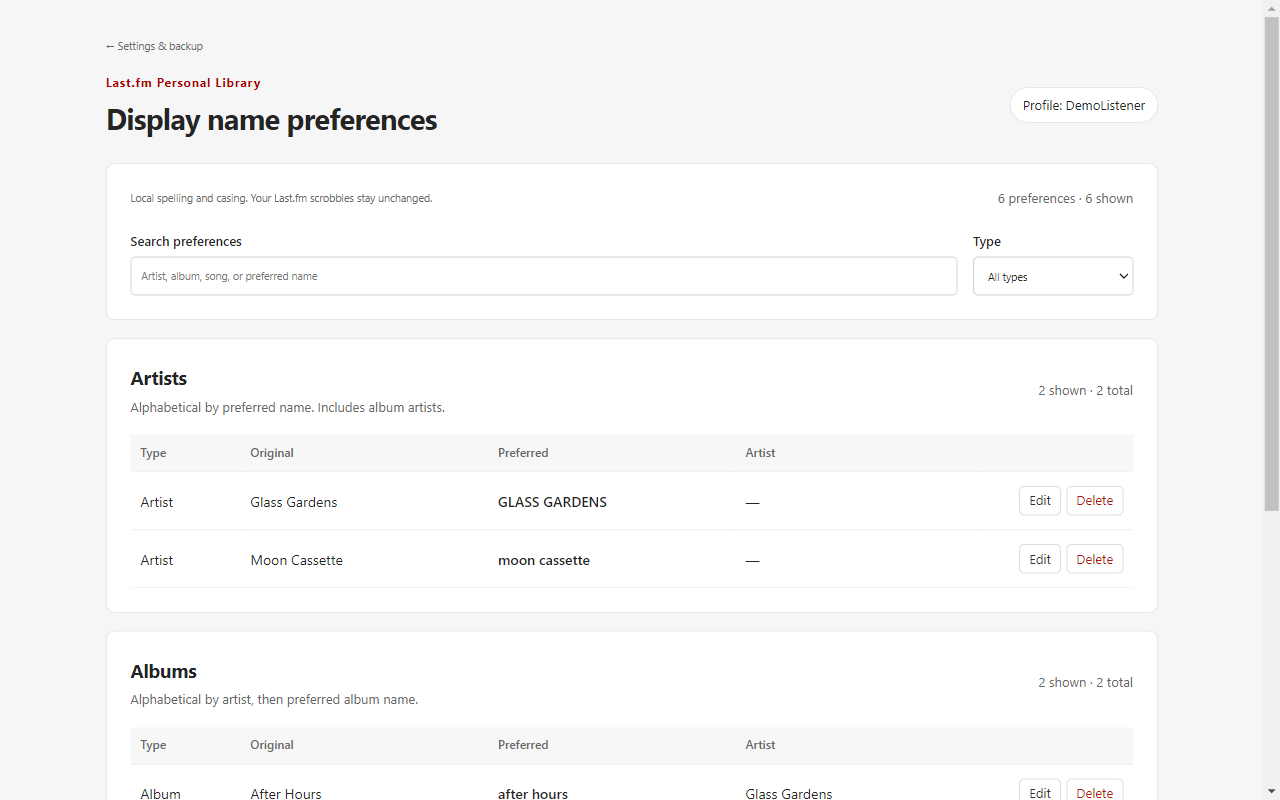
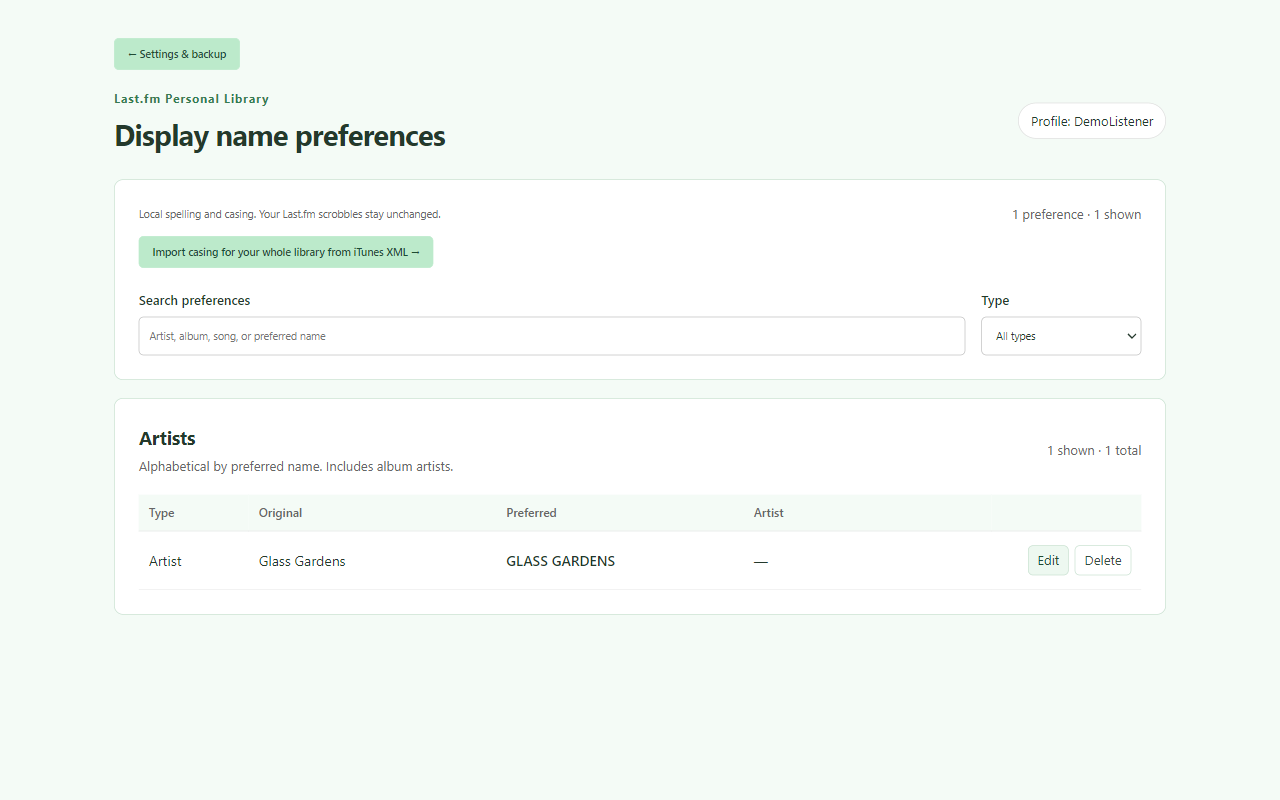
Prepare v0.9.24 Chrome Web Store submission bundle

diff --git a/privacy.html b/privacy.html
@@ -5,7 +5,7 @@
   <header class="page-header"><div><p class="eyebrow">Last.fm Personal Library · <span data-version></span> beta</p><h1>Privacy</h1><p class="subtle">Updated 29 October 2026</p></div></header>
   <main>
     <section class="card"><h2>In brief</h2><p>Your display preferences and imported music metadata are processed on your device. The extension has no developer-operated server, advertising, analytics, tracking SDK, account system or automatic error reporting. It does not send your XML or preferences to the developer.</p><p>The <code>unlimitedStorage</code> permission lets a whole library's display preferences and undo record exceed Chrome's usual local extension-storage quota. It adds no access to other websites or accounts. Storage remains on this device. The <code>alarms</code> permission wakes resumable background caching jobs; it grants no website or account access.</p></section>
-    <section class="card"><h2>Information used</h2><ul><li><strong>Your Last.fm username and settings</strong> identify the profile where features may run.</li><li><strong>Artist, album, album-artist and song names</strong> from your selections and XML are used to build display preferences. XML is read locally; the original file and its filename are not retained or uploaded by the extension.</li><li><strong>Last.fm page content</strong>, including track names, album tags, play counts, timestamps, images, links and native edit-form fields, is read to display your library, open its normal editor and choose your personal covers.</li><li><strong>Local records</strong> include display preferences, settings, the latest XML undo record, a per-profile library name/artist cache with page progress, skipped-item reports and background job state, a bounded artwork cache, request pacing/pause state, and any album-less rules, discovery progress and correction-attempt records retained from earlier versions.</li></ul><p>The extension runs on <code>https://www.last.fm/</code>. Display names and library browsing are restricted to the profile you connect. Personal covers and broken-image recovery also run on public artist pages and their Tracks lists, using your connected history and exact public track/album associations. Catalogue-only results stay in page memory rather than the personal-winner cache. Other users' profiles are not personalised. Redirect protection also adjusts Travis Scott and Lucki navigation on their public music pages, without saving their page contents. The extension does not request access to unrelated websites or read files you have not selected.</p></section>
+    <section class="card"><h2>Information used</h2><ul><li><strong>Your Last.fm username and settings</strong> identify the profile where features may run.</li><li><strong>Artist, album, album-artist and song names</strong> from your selections and XML are used to build display preferences. XML is read locally; the original file and its filename are not retained or uploaded by the extension.</li><li><strong>Last.fm page content</strong>, including track names, album tags, play counts, timestamps, images, links and native edit-form fields, is read to display your library, open its normal editor and choose your personal covers.</li><li><strong>Local records</strong> include display preferences, settings, the latest XML undo record, a per-profile library name/artist cache with page progress, skipped-item reports and background job state, a bounded artwork cache, request pacing/pause state, and any album-less rules, discovery progress and correction-attempt records retained from earlier versions.</li></ul><p>The extension runs on <code>https://www.last.fm/</code>. Display names and library browsing are restricted to the profile you connect. Personal covers and broken-image recovery also run on public artist pages and their Tracks lists, using your connected history and exact public track/album associations. Catalogue-only results stay in page memory rather than the personal-winner cache. Other users' profiles are not personalised. Redirect protection keeps supported artist, song and album links on their original pages in the connected profile and public music pages, without uploading page contents to the developer. The extension does not request access to unrelated websites or read files you have not selected.</p></section>
     <section class="card"><h2>Requests and third parties</h2><p>Background library caching starts after you connect a profile and uses a connected Last.fm tab, existing rate limits and persistent pauses. Closing the comparison screen does not stop it; Pause caching does. Library comparison, scrolling, artwork discovery, native edit dialogs request pages from Last.fm using your existing browser session. Last.fm receives the requested URLs, your IP address and normal session credentials. Cover images are loaded from Last.fm’s image hosts, including <code>lastfm-img.freetls.fastly.net</code>. These services receive normal image requests.</p><p>Real scrobble edits you submit use Last.fm’s native forms. The extension page transport is hard-coded to GET requests and rejects submissions. Local display-name changes and XML comparison never submit scrobble edits.</p><p>No passwords are requested by the extension. Session cookies are handled by the browser; there is no cookie-reading permission. Native security fields may be used in memory as part of Last.fm’s editor and are not included in the extension’s saved preferences or diagnostics.</p><p>Last.fm and its image services operate under their own privacy policies. Browser and extension-store services may separately process installation, update or crash information under their own settings and policies.</p></section>
     <section class="card"><h2>Storage and your controls</h2><p>Records are kept in <code>chrome.storage.local</code> in this browser installation until you change/delete them or remove the extension. The extension does not use Chrome Sync. Artwork records are bounded and may be replaced; display preferences are not evicted by the artwork cache.</p><p>You can search, edit and delete display preferences, revert the latest XML import, and export/import JSON in Settings. JSON exports are downloaded only when you request them and may contain your username, listening metadata, preferences and retained records. Keep exports private. The source XML remains wherever you keep it.</p><p>Disabling the extension retains its records. Removing it can delete its local storage. Export first if you want to keep a backup. Copies you downloaded or shared are not deleted by uninstalling.</p></section>
     <section class="card"><h2>Diagnostics and contact</h2><p>Diagnostics are copied to your clipboard only when you press Copy diagnostics. They include the extension version, configured username, feature state, counts and limited error/status information. They omit individual song names, XML contents, passwords and security tokens. Review the text before sharing it voluntarily.</p><p>Use the support channel identified on the extension’s beta download or store listing for questions or feedback. There is no automatic transmission to that channel.</p></section>

diff --git a/release/STORE-LISTING.md b/release/STORE-LISTING.md
@@ -1,133 +1,72 @@
-# Store listing draft · v0.9.13 beta
+# Chrome Web Store listing · v0.9.24 beta
 
-Prepared for review, not submitted. Publisher account, public URLs and support
-details must be supplied before publication. Do not enter invented details.
+Prepared for submission; not submitted to Chrome. GitHub remains private.
 
-## Listing text
+## Listing fields
 
-**Name:** Last.fm Personal Library
+Name (from manifest): Last.fm Personal Library
 
-**Summary:** Personalise your Last.fm library with local display names, iTunes XML
-casing import and continuous scrolling.
+Summary (from manifest): Personalise your Last.fm library with local display names, iTunes XML casing import and continuous scrolling.
 
-**Description:**
+Suggested category: Tools. Language: English.
 
-Make your own Last.fm library display the artist, album and song names you prefer.
-Keep your choices locally in your browser, without changing Last.fm's catalogue.
+## Description
 
-- Choose case-sensitive display names for artists, albums and songs.
-- Import an iTunes library XML locally, watch the scan progress, review the names
-  and select which preferences to apply. Revert the latest import if needed.
-- Search, edit and delete preferences on a separate Display names page.
-- Keep scrolling through native Last.fm library rows, including dated Scrobbles.
-- Export and restore a JSON backup.
+Make your own Last.fm library display the letter casing you prefer, with local display preferences and library browsing tools.
 
-Connect your Last.fm username in Settings. Display names apply only to that
-profile. Personal covers also run on public artist pages and their Tracks lists.
-No extension password, developer account or analytics is required. XML
-files are processed on your device and are not uploaded to the developer.
+- Save casing changes from Last.fm's native edit dialog using Save casing changes.
+- Match an iTunes/Apple Music XML export against your cached Last.fm library. Review Before and After, select changes and save them locally.
+- Only exact names differing in letter casing qualify for XML matching. Featuring credits, punctuation and edition suffixes are never removed.
+- Cache your library in the background while a connected Last.fm profile tab is open. Pause, resume, export or import the cache. Large libraries can take several hours.
+- Search and manage saved preferences; export and restore a JSON backup. Undo the latest XML import while preserving later manual changes.
+- Load more native library rows as you scroll, with your consent.
+- Keep supported artist, song and album links on their original pages using redirect protection.
 
-This is a beta. Personal track covers and native editing are included for testing.
-Covers use your most-scrobbled album for the track and update the album link too.
-On a specific album's library page, all tracks use that album's existing header
-cover and link without history lookups.
-Unverified covers and links stay hidden during lookup. Cached and shared verified
-covers are prepared before scroll-added rows appear, with a bounded head start
-for new lookups. Public tracks you have never heard use only an explicit exact
-track-to-album association from Last.fm; unrelated releases are not substituted.
-Cached covers are reused; new selections require Last.fm requests and can take
-time. Missing artwork and changes to Last.fm's pages can prevent a result.
-Normal scrobble edits use Last.fm's editor and require the appropriate Last.fm
-account access. Local display preferences do not submit scrobble edits.
+The interface is labelled Jay's Last.fm tool. Connect your Last.fm username in Settings; the extension never asks for your Last.fm password. Display preferences apply only to the profile you connect. XML files are processed on your device and are not uploaded to the developer.
 
-The Albumless tracks feature has been removed. Legacy records are preserved
-without being acted on.
+Local casing changes affect how the website looks. They never edit or delete Last.fm scrobbles or change its catalogue. Last.fm's separate Save edit button retains its normal server-side behaviour; do not use it to save local casing.
 
-Preferences stay in this browser installation and do not sync to other devices.
-Export JSON before changing installations or uninstalling.
+Artwork support uses available Last.fm page data and cached covers. Missing data, page changes and request pauses may prevent a result. Redirect protection cannot repair Last.fm's catalogue, merged statistics or ambiguous artist identities; typed/external links can redirect before the extension runs.
+
+Preferences stay in this browser installation. Export a backup before uninstalling or moving to a store installation. No advertising, analytics, developer-operated collection server or Chrome Sync.
 
 Independent project. Not affiliated with or endorsed by Last.fm or Apple.
 
-## Assets
+## Privacy practices and permission justifications
 
-- Extension ZIP: `dist/lastfm-personal-library-0.9.13-beta.zip`
-- Icon: `release/assets/icon128.png` (128 × 128 PNG)
-- Small promotional tile: `release/assets/promo440.png` (440 × 280 PNG)
-- Screenshots: `release/assets/setup.png`, `preferences.png`, `xml-review.png`
-  (1280 × 800 PNG each).
-- Screenshots show the actual extension UI with fictional music metadata. Do not
-  label these as signed-in Last.fm screenshots or real-user acceptance evidence.
+Single purpose: Personalise the connected user's Last.fm library presentation using local display preferences and library browsing controls.
 
-The icons and promotional graphic are original project artwork. No Last.fm logo,
-Apple logo or third-party album artwork is included in these release assets.
+- storage: Store profile settings, display preferences, XML undo, library cache/progress, skipped items, artwork records and request pauses locally. Retain legacy records without acting on removed features.
+- unlimitedStorage: Whole-library preferences, library cache and the undo record can exceed Chrome's usual local storage quota. This enables local storage, not additional website access.
+- alarms: Resume persisted background library caching after the extension worker is suspended, respecting saved pauses and request pacing.
+- https://www.last.fm/* content-script access: Read the connected profile's library, native form metadata and public music pages; apply local display names, append library rows and protect original music links. The shared page transport permits GET only. No unrelated-site access.
+- Remote code: No. All executable JavaScript is included in the ZIP.
 
-## Privacy tab and permissions
+Data processed: username, settings, selected XML music metadata, display preferences, Last.fm library names/counts/timestamps and native form metadata, local cache/progress/undo and voluntary diagnostics. Original XML files and filenames are not retained. Native security fields are not saved in preferences or diagnostics. Normal page/image requests go to Last.fm and its image hosts using the browser session. No automatic data reporting to the developer. User-requested JSON downloads can contain listening metadata and should be kept private.
 
-**Single purpose:** Personalise the connected user's Last.fm library presentation
-with locally saved display preferences and native library browsing controls.
-
-**storage justification:** Save profile settings, display-name preferences, XML
-undo, bounded artwork cache and request state in this browser installation, and
-preserve existing album-less/discovery records. The extension does not use Sync.
-
-**Last.fm site access justification:** Read the connected profile's library rows,
-native edit forms, album tags and images to apply preferences, append the next
-library page, select personal covers and open Last.fm's normal editor. Public
-artist lists also read your connected history and exact track/album pages for
-covers. Redirect protection adjusts supported artist links on public music pages.
-The content
-scripts match only `https://www.last.fm/*`. There is no unrelated-site access.
-
-**Remote code:** None. Runtime JavaScript is packaged locally. Requests retrieve
-Last.fm data and images; they do not download executable code.
-
-**Data inventory for the publisher to disclose accurately:**
-
-| Information | Processing / destination |
-| --- | --- |
-| Last.fm username, settings, display preferences | Local extension storage |
-| Selected XML music metadata | Local parsing/review; applied rules and latest undo stored locally |
-| Last.fm names, counts, timestamps, album tags, native form fields | Read from Last.fm; relevant artwork and request state cached locally |
-| Native security fields | Used in memory with Last.fm's normal editor; not saved in preferences or diagnostics |
-| Page / image requests | Last.fm and its image hosts receive normal browser requests and session credentials |
-| JSON exports | Local download initiated by the user; may contain listening metadata and legacy records |
-| Voluntary diagnostics | Clipboard only on request; username, counts and feature/error state; no automatic reporting |
-
-There is no developer-operated collection endpoint, sale, advertising or analytics.
-Review the current dashboard's data-category definitions against this inventory
-and the privacy policy; do not claim the extension processes no user data merely
-because processing is local. Complete the applicable limited-use certifications
-only after verifying that the final listing, privacy policy and source agree.
-
-Use the publicly hosted `privacy.html` as the policy URL. A local extension path
-or a file on this PC is not a public privacy-policy URL. Add the real publisher
-and support information to the site and policy before submission.
+Complete the dashboard's current data-category selections and Limited Use certifications against this inventory and privacy.html. Local processing does not justify claiming that no user data is processed.
 
 ## Reviewer instructions
 
-1. Install the package. Settings opens for a fresh installation; it starts with
-   no connected profile and writes no initial preferences.
-2. Enter a Last.fm username and select Connect profile. No password is requested
-   by the extension. Opening that profile's library enables personalisation;
-   other profiles are left unchanged.
-3. Open Import iTunes XML and select an exported XML library. The scan is local;
-   review/select names before Apply. No Last.fm write is needed to test this.
-4. Open Display names to inspect groups/search/edit/delete. Export JSON from
-   Settings. Revert the latest XML import on the import page.
-5. Open the connected profile's library and scroll to load more native rows.
-6. Artwork and normal editing need Last.fm page data; normal editing additionally
-   needs a signed-in Last.fm account with editing access. Do not include Jay's
-   account credentials in a reviewer note. Arrange reviewer access separately
-   only if the store requests it.
-7. Albumless tracks is removed. Legacy stored records never trigger actions.
+1. Install the extension ZIP. A new installation starts disconnected. Open Settings and connect your own Last.fm username; no password is entered into the extension.
+2. Keep that profile's Last.fm tab open to cache the library. Step 1 of iTunes casing shows progress, Pause/Resume and cache export/import. Advanced rebuild requires confirmation and retains the current cache until its replacement finishes.
+3. Export your iTunes library using File → Library → Export Library…; choose the XML in Step 2 and Compare libraries. Step 3 shows only different casing for names observed in the cache. Review selected changes and confirm. Saving and Complete reflect the actual local storage operation. An incomplete cache only matches names cached so far.
+4. Refresh the connected Last.fm library to see saved casing. Other users' libraries remain unchanged. Use Display names to manage preferences and Settings to export a backup. Undo the latest XML import from Backup & undo on the import screen.
+5. If native edit access is available on your own Last.fm account, change only letter casing and use Save casing changes. Do not click Last.fm's Save edit during local-only testing. No reviewer credentials are bundled.
+6. Open artist/song/album links from the connected profile or public music pages and check +noredirect remains in the URL. For example Kesha should remain Kesha, not Ke$ha. Direct external URL entry is outside this link-protection boundary.
 
-## Official submission references
+## Supplied assets
 
-- [Prepare the ZIP](https://developer.chrome.com/docs/webstore/prepare)
-- [Image dimensions](https://developer.chrome.com/docs/webstore/images)
-- [Privacy requirements](https://developer.chrome.com/docs/webstore/program-policies/privacy)
-- [Privacy dashboard](https://developer.chrome.com/docs/webstore/cws-dashboard-privacy)
-- [Review process](https://developer.chrome.com/docs/webstore/review-process)
+Upload lastfm-personal-library-0.9.24-beta.zip as the extension (manifest.json is at the root).
+Use assets/icon128.png (128×128), assets/promo440.png (440×280), and the three 1280×800 screenshots in the submission bundle. Screenshots show actual extension pages in an isolated profile with fictional music metadata; they are not signed-in live acceptance evidence.
 
-Store availability depends on review; preparing or submitting this ZIP does not
-guarantee same-day approval.
+## Publisher fields still required
+
+- Registered Chrome Web Store publisher and verified contact details.
+- Publicly reachable privacy-policy URL serving the supplied privacy.html; a private GitHub URL is insufficient.
+- Real support URL/contact and any required publisher identity disclosures.
+- Final dashboard disclosures, distribution choices and submission/review.
+
+No publisher identity, contact email or public URL has been invented. Preparing this bundle and pushing it to private GitHub does not submit it to Chrome or publish a website.
+
+References: [ZIP preparation](https://developer.chrome.com/docs/webstore/prepare), [images](https://developer.chrome.com/docs/webstore/images), [privacy fields](https://developer.chrome.com/docs/webstore/cws-dashboard-privacy).

diff --git a/release/PUBLISHING.md b/release/PUBLISHING.md
@@ -1,97 +1,37 @@
-# Beta delivery and publication
+# Chrome Web Store handoff · v0.9.24 beta
 
-## Jay's one local test version
+## Outputs
 
-The installed folder contains **v0.9.14 beta**, a local artwork candidate with
-cold ranked acceptance still pending. Keep it in place. The packaged v0.9.13
-outputs listed below are the previous checkpoint; no v0.9.14 publication is prepared.
+- dist/lastfm-personal-library-0.9.24-beta.zip: upload this ZIP to Chrome, not the outer submission bundle.
+- dist/lastfm-personal-library-0.9.24-beta.zip.sha256: package integrity check.
+- dist/chrome-web-store-0.9.24-submission.zip: handoff bundle with the upload ZIP, checksum, per-file audit, listing/reviewer text, assets and a static privacy/download site.
+- dist/chrome-web-store-0.9.24-submission.zip.sha256: handoff integrity check.
 
-1. Click Reload on the existing extension card in `chrome://extensions`.
-   Re-enable it if disabled, then refresh existing Last.fm tabs.
-   On a library Tracks list, check the covers and
-   their links, including rows added after choosing Yes or Always. Fresh verified
-   covers should be prepared before the appended text appears. Unverified native
-   compilation covers and links stay hidden while new lookups finish.
-   Check a public artist page too. Genuine missing exact album associations may
-   remain empty. Cold loose tracks still require paced Last.fm requests.
-2. Open the extension's Display names page → Import casing for your whole library
-   from iTunes XML (or use Settings → Import your iTunes casing).
-3. Choose an XML, review its names and choose artist/album/song groups or
-   individual rows. Export JSON before replacing saved preferences, then Apply.
-4. Refresh your own Last.fm library. Imported casing should appear on matching
-   names, including rows loaded as you scroll. Revert last XML import is available
-   on the import page; it preserves later manual preference edits.
+The runtime ZIP uses an explicit allowlist and excludes tests, profiles, logs, XML, backups and repository history. Store images contain fictional metadata only. Packaging does not change the installed extension identity, permissions or saved data.
 
-No Console commands are needed. A screenshot or ordinary description of any
-remaining problem is enough. Direct Library Doctor connection/sync is not yet
-enabled; a fresh XML export after cleanup uses the same import flow today.
-The v0.9.13 signed-in responsiveness checks are recorded in CURRENT.md. Last.fm's
-request pause prevented a live append check and is retained. The prior 300-row
-checkpoint belongs to withdrawn v0.9.11. Jay's Reload test remains the acceptance
-check for normal browsing and remaining examples.
+## Delivery
 
-## Prepared local outputs
+Deliver the source branch/tag and packaged assets to the existing private DCCXX9/lastfm-personal-library repository as a v0.9.24 prerelease. Preserve previous branches/tags/releases. No force-push, public visibility change, Chrome submission or website hosting is part of this handoff.
 
-| Output | Path relative to project |
-| --- | --- |
-| Upload / download ZIP | `dist/lastfm-personal-library-0.9.13-beta.zip` |
-| ZIP checksum | `dist/lastfm-personal-library-0.9.13-beta.zip.sha256` |
-| Per-file audit | `dist/package-manifest.json` |
-| Static website including download and privacy page | `dist/site/` |
-| Store copy and review instructions | `release/STORE-LISTING.md` |
-| Store images | `release/assets/` |
-| Candidate notes / limitations | `release/NOTES.md` |
+## Submission still needed
 
-The distribution contains only explicitly allowlisted runtime files. It excludes
-tests, browser profiles, logs, backups, personal XML, Git history and local docs.
-The installed folder is not moved or replaced to create the ZIP.
+Use STORE-LISTING.md for listing text, permission explanations and reviewer steps. Supply the real publisher account, support details and public privacy-policy URL, then complete the current Chrome dashboard disclosures and distribution settings. Store approval is not guaranteed by local checks.
 
-## Before any public upload
+Existing live checks and their limits are recorded in docs/CURRENT.md. Kesha's specific redirect cases pass focused source checks; a new installed-browser Kesha check remains pending because the live debugging endpoint is unavailable. Generic redirect navigation was previously checked in the installed browser. Store screenshots use an isolated extension with fictional data and all network access blocked.
 
-- Finish the signed-in acceptance above. Resolve material failures or narrow the
-  public claim before publication.
-- Supply the developer account and real publisher details. This work did not
-  create an account, pay a fee, sign an agreement or submit a listing.
-- Choose a real support channel and approved public site address. Add them to
-  the website and privacy/contact text. Check the hosted privacy page is publicly
-  reachable. The policy draft does not invent an identity or contact address.
-- Review the listing/data disclosures against the final source. Review source
-  ownership and any distribution terms you intend to offer; no open-source
-  licence or public-source release has been granted by this preparation.
-- Approve the exact public upload/submission. Nothing here is publicly hosted.
-
-## Fastest route once approved
-
-The static `dist/site/` can provide a beta ZIP download before a store listing is
-approved. It uses manual unpacked installation, which asks testers to enable
-Developer mode. It is not an automatic store installation/update channel.
-
-For Chrome Web Store: register the developer account, create the listing, upload
-the ZIP, add the provided images/copy and public policy/support URLs, complete
-privacy/distribution settings, then submit for review. The review can take days
-or longer; do not advertise a guaranteed release time.
-
-A store installation will have its own identity and may have separate local
-storage from Jay's unpacked installation. Export before moving between them and
-verify the new copy before removing the old one. No extension key or update URL
-has been added to this installed copy.
+A store installation may have a different extension ID and separate local storage. Export settings/preferences and library cache before switching, verify the new installation, and retain the existing unpacked installation until then. No key or update URL is added to the installed copy.
 
 ## Rebuild on this PC
-
-From a fresh PowerShell session:
 
 ```powershell
 $projectPath = 'C:\Users\jayco\Desktop\lastfm-personal-library\lastfm-personal-library'
 if (!(Test-Path -LiteralPath (Join-Path $projectPath 'manifest.json'))) { throw 'Extension folder missing.' }
 Set-Location -LiteralPath $projectPath
-node tools/package-beta.cjs
-node tests/release.cjs
+$env:NODE_PATH = 'C:\Users\jayco\.cache\codex-runtimes\codex-primary-runtime\dependencies\node\node_modules'
+$env:PLAYWRIGHT_CHROMIUM_EXECUTABLE_PATH = 'C:\Program Files\Supermium\chrome.exe'
+node tools/capture-beta.cjs
+node tests/run.cjs release release-site beta-store beta-onboarding
+node tools/package-store.cjs
 ```
 
-Success prints the ZIP name, SHA-256 and package validation PASS. Do not copy the
-whole workspace into an upload. Rebuilding after a runtime change changes the
-checksum; use the regenerated `.sha256` and per-file manifest together.
-
-Official guidance: [developer registration](https://developer.chrome.com/docs/webstore/register/),
-[manual installation](https://developer.chrome.com/docs/extensions/how-to/distribute/install-extensions),
-[review timing](https://developer.chrome.com/docs/webstore/review-process).
+Success prints validation PASS, both ZIP names and SHA-256 checksums. Upload only the inner extension ZIP to Chrome.

diff --git a/docs/CURRENT.md b/docs/CURRENT.md
@@ -1,5 +1,37 @@
 # Current state — 29 October 2026
 
+## 29 October 2026: Chrome Web Store / private GitHub handoff
+
+Packaging baseline fa293fea314aeea16081c6806b7fa438865ba759; clean existing
+codex/itunes-library-styling worktree, no competing owner. Prepared v0.9.24
+without changing its version, permissions, extension identity or saved data.
+Updated store copy, reviewer instructions and permission justifications; refreshed
+three 1280×800 screenshots from the actual extension in a network-blocked,
+isolated synthetic profile. Original icons and promotional graphic retained.
+Privacy wording now reflects universal artist/song/album redirect protection.
+Added tools/package-store.cjs and corrected generated site's version footer.
+
+Runtime ZIP: 41 files, 300,553 bytes; SHA-256
+1b3bb098cbc49350204f56934d3f8159235eec1679c9f9d1dbeba1f6abb44efa.
+Submission ZIP: 23 files, 956,005 bytes; SHA-256
+137bcde1531b56861a34f1c381822ea64a7f20c32d6b90eca783bb1bbea64112.
+Independent ZIP CRCs, exact source bytes, per-file hashes, inner/outer consistency,
+checksum files and manifest summary limit verified. release, release-site,
+beta-store, beta-onboarding, redirects and redirect-requests all pass (6/6).
+The extracted upload ZIP separately passes actual-extension onboarding in an
+isolated browser. Screenshots were visually inspected. Earlier full feature gate
+and signed-in evidence are below; they were not rerun or relabelled as new live
+acceptance. Kesha-specific source checks passed in the preceding task; a new
+installed-browser Kesha check remains pending because access is unavailable.
+
+Delivery: requested source branch, annotated v0.9.24 tag and ZIP/checksum assets
+are prepared for the existing private DCCXX9/lastfm-personal-library prerelease.
+No old branches/tags/releases are replaced. Publisher identity/support fields,
+a publicly hosted privacy-policy URL and Chrome dashboard submission remain
+pending; no store upload, website hosting or visibility change is performed.
+Installed signed-in browser data, XML undo, caches and pauses are untouched.
+Rollback for this packaging-only change: fa293fe. Release files: release/PUBLISHING.md.
+
 ## 29 October 2026: Settings buttons and universal music protection v0.9.24
 
 Baseline: dd447bf95554c95c9e192f6b6e91ce9a2379eec7 on

diff --git a/README.md b/README.md
@@ -12,7 +12,7 @@ used. Toggle in Settings; see [scope and testing](docs/REDIRECT_PROTECTION.md).
 
 ## Versions and source history
 
-The private GitHub repository preserves the v0.9.17 source and earlier
+The private GitHub repository preserves the extension source and earlier
 Git history. See [version history](docs/VERSION_HISTORY.md) for version tags,
 recoverable snapshots and their acceptance limitations. Tags identify source
 snapshots; they do not certify every historical build as stable.
@@ -41,8 +41,10 @@ preferences remain available.
 
 The local ZIP, original store assets, static download site and submission draft
 are prepared by `tools/package-beta.cjs`. See [release/PUBLISHING.md](release/PUBLISHING.md)
-for delivery, publication gates and the one Reload test. Nothing has been publicly
-uploaded or submitted; signed-in acceptance is still pending.
+for the v0.9.24 Chrome Web Store submission bundle and remaining publisher fields.
+The package is prepared for private GitHub delivery; it has not been submitted to
+Chrome or publicly hosted. Existing signed-in checks and their limits are recorded
+in `docs/CURRENT.md`. Run `node tools/package-store.cjs` to rebuild the handoff.
 
 ## Updating this installed copy
 

diff --git a/release/NOTES.md b/release/NOTES.md
@@ -1,3 +1,13 @@
+# Chrome Web Store package · v0.9.24 beta
+
+29 October 2026. Packaging baseline fa293fe. Runtime version and extension identity are retained. Updated privacy wording for universal redirect scope; no feature, permission or storage-format changes.
+
+Includes current synthetic store screenshots, listing/reviewer text, storage/unlimitedStorage/alarms justifications, runtime file hashes and a separate store handoff ZIP. No personal XML, browser storage, profiles or logs are packaged. Public publisher/support details and a hosted privacy URL remain required; no Chrome submission is performed.
+
+Source and packages are intended for the existing private GitHub repository. Previous versions are preserved. The installed browser and its saved records are left untouched. Kesha-specific source checks passed; new live Kesha verification remains pending. Existing signed-in v0.9.24 acceptance and limits are in docs/CURRENT.md.
+
+---
+
 # v0.9.24 local candidate — Settings buttons and music redirect protection
 
 - Replace Settings navigation links with light-green buttons; simplify the
